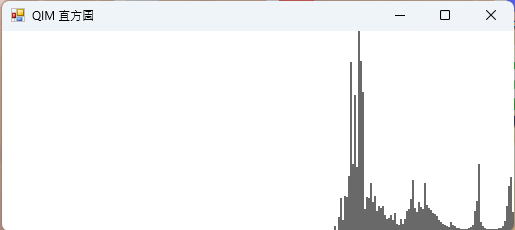
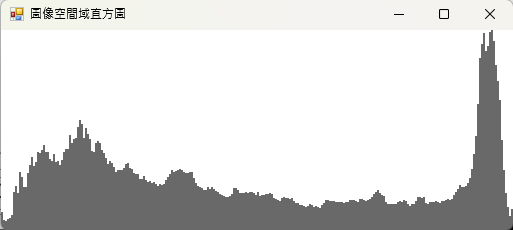
Fixed an issue with image import, updated READMEs and added a Traditional Chinese one. 05/18

Changed region(s): [[0.0, 0.0, 1.0, 1.0], [0.7485, 0.0609, 0.7797, 0.0913]]

diff --git a/StegoApolloUI/Forms/MainForm.Designer.cs b/StegoApolloUI/Forms/MainForm.Designer.cs
@@ -32,6 +32,7 @@
             System.ComponentModel.ComponentResourceManager resources = new System.ComponentModel.ComponentResourceManager(typeof(MainForm));
             this.menu = new System.Windows.Forms.MenuStrip();
             this.menu_functions = new System.Windows.Forms.ToolStripMenuItem();
+            this.menu_toggleDebugMode = new System.Windows.Forms.ToolStripMenuItem();
             this.menu_reset = new System.Windows.Forms.ToolStripMenuItem();
             this.menu_file = new System.Windows.Forms.ToolStripMenuItem();
             this.menu_open = new System.Windows.Forms.ToolStripMenuItem();
@@ -59,6 +60,7 @@
             this.btn_dBrowse = new System.Windows.Forms.Button();
             this.btn_Encrypt = new System.Windows.Forms.Button();
             this.btn_Decrypt = new System.Windows.Forms.Button();
+            this.btn_dHistogram = new System.Windows.Forms.Button();
             this.panel_Encrypt = new System.Windows.Forms.Panel();
             this.panel_eActions = new System.Windows.Forms.Panel();
             this.panel_eProgressBar = new System.Windows.Forms.Panel();
@@ -96,8 +98,6 @@
             this.cBox_AlgoSelect = new System.Windows.Forms.ComboBox();
             this.lbl_AlgoSelect = new System.Windows.Forms.Label();
             this.btn_Logo = new System.Windows.Forms.Button();
-            this.btn_dHistogram = new System.Windows.Forms.Button();
-            this.menu_toggleDebugMode = new System.Windows.Forms.ToolStripMenuItem();
             this.menu.SuspendLayout();
             this.status.SuspendLayout();
             this.panel_Encrypt.SuspendLayout();
@@ -138,11 +138,19 @@
             this.menu_functions.Size = new System.Drawing.Size(43, 20);
             this.menu_functions.Text = "功能";
             // 
+            // menu_toggleDebugMode
+            // 
+            this.menu_toggleDebugMode.Name = "menu_toggleDebugMode";
+            this.menu_toggleDebugMode.Size = new System.Drawing.Size(169, 22);
+            this.menu_toggleDebugMode.Text = "除錯模式 (已停用)";
+            this.menu_toggleDebugMode.ToolTipText = "切換除錯模式開/關";
+            this.menu_toggleDebugMode.Click += new System.EventHandler(this.menu_toggleDebugMode_Click);
+            // 
             // menu_reset
             // 
             this.menu_reset.ForeColor = System.Drawing.Color.Maroon;
             this.menu_reset.Name = "menu_reset";
-            this.menu_reset.Size = new System.Drawing.Size(180, 22);
+            this.menu_reset.Size = new System.Drawing.Size(169, 22);
             this.menu_reset.Text = "重置所有東西";
             this.menu_reset.Click += new System.EventHandler(this.menu_reset_Click);
             // 
@@ -220,8 +228,8 @@
             this.btn_eHistogram.Name = "btn_eHistogram";
             this.btn_eHistogram.Size = new System.Drawing.Size(90, 37);
             this.btn_eHistogram.TabIndex = 1;
-            this.btn_eHistogram.Text = "顯示直方圖(?)";
-            this.toolTip.SetToolTip(this.btn_eHistogram, "目前只支援HistShift演算法");
+            this.btn_eHistogram.Text = "顯示直方圖";
+            this.toolTip.SetToolTip(this.btn_eHistogram, "顯示圖片的空間域直方圖");
             this.btn_eHistogram.UseVisualStyleBackColor = true;
             this.btn_eHistogram.Click += new System.EventHandler(this.btn_eHistogram_Click);
             // 
@@ -403,6 +411,18 @@
             this.toolTip.SetToolTip(this.btn_Decrypt, "進入萃取模式");
             this.btn_Decrypt.UseVisualStyleBackColor = true;
             this.btn_Decrypt.Click += new System.EventHandler(this.btn_Decrypt_Click);
+            // 
+            // btn_dHistogram
+            // 
+            this.btn_dHistogram.Font = new System.Drawing.Font("微軟正黑體", 9F, System.Drawing.FontStyle.Bold, System.Drawing.GraphicsUnit.Point, ((byte)(136)));
+            this.btn_dHistogram.Location = new System.Drawing.Point(299, 1);
+            this.btn_dHistogram.Name = "btn_dHistogram";
+            this.btn_dHistogram.Size = new System.Drawing.Size(90, 37);
+            this.btn_dHistogram.TabIndex = 4;
+            this.btn_dHistogram.Text = "顯示直方圖";
+            this.toolTip.SetToolTip(this.btn_dHistogram, "顯示圖片的空間域直方圖");
+            this.btn_dHistogram.UseVisualStyleBackColor = true;
+            this.btn_dHistogram.Click += new System.EventHandler(this.btn_dHistogram_Click);
             // 
             // panel_Encrypt
             // 
@@ -805,26 +825,6 @@
             this.btn_Logo.UseVisualStyleBackColor = false;
             this.btn_Logo.Click += new System.EventHandler(this.btn_Logo_Click);
             // 
-            // btn_dHistogram
-            // 
-            this.btn_dHistogram.Font = new System.Drawing.Font("微軟正黑體", 9F, System.Drawing.FontStyle.Bold, System.Drawing.GraphicsUnit.Point, ((byte)(136)));
-            this.btn_dHistogram.Location = new System.Drawing.Point(299, 1);
-            this.btn_dHistogram.Name = "btn_dHistogram";
-            this.btn_dHistogram.Size = new System.Drawing.Size(90, 37);
-            this.btn_dHistogram.TabIndex = 4;
-            this.btn_dHistogram.Text = "顯示直方圖(?)";
-            this.toolTip.SetToolTip(this.btn_dHistogram, "目前只支援HistShift演算法");
-            this.btn_dHistogram.UseVisualStyleBackColor = true;
-            this.btn_dHistogram.Click += new System.EventHandler(this.btn_dHistogram_Click);
-            // 
-            // menu_toggleDebugMode
-            // 
-            this.menu_toggleDebugMode.Name = "menu_toggleDebugMode";
-            this.menu_toggleDebugMode.Size = new System.Drawing.Size(180, 22);
-            this.menu_toggleDebugMode.Text = "除錯模式 (已停用)";
-            this.menu_toggleDebugMode.ToolTipText = "切換除錯模式開/關";
-            this.menu_toggleDebugMode.Click += new System.EventHandler(this.menu_toggleDebugMode_Click);
-            // 
             // MainForm
             // 
             this.AutoScaleDimensions = new System.Drawing.SizeF(6F, 12F);
@@ -833,10 +833,10 @@
             this.ClientSize = new System.Drawing.Size(800, 531);
             this.Controls.Add(this.btn_Logo);
             this.Controls.Add(this.panel_Algorithm);
-            this.Controls.Add(this.panel_Decrypt);
             this.Controls.Add(this.panel_Functions);
-            this.Controls.Add(this.panel_Default);
             this.Controls.Add(this.panel_Encrypt);
+            this.Controls.Add(this.panel_Default);
+            this.Controls.Add(this.panel_Decrypt);
             this.Controls.Add(this.status);
             this.Controls.Add(this.menu);
             this.FormBorderStyle = System.Windows.Forms.FormBorderStyle.FixedSingle;

diff --git a/StegoApolloUI/Forms/MainForm.cs b/StegoApolloUI/Forms/MainForm.cs
@@ -24,6 +24,7 @@ namespace StegoApolloUI
         private string _processingText = "";
         private bool _isTextboxDefault = true;
         private bool _isProcessed = false;
+        private Bitmap originalImage = null;
         private Bitmap processedImage = null;
 
         public MainForm(int maxMessageLength)
@@ -72,8 +73,6 @@ namespace StegoApolloUI
                     btn_eStartAction.Enabled = false;
                     btn_eExport.Enabled = true;
                     btn_dStartAction.Enabled = false;
-                    btn_eHistogram.Enabled = true;
-                    btn_dHistogram.Enabled = true;
                     MessageBox.Show(currentMode=="Encrypt" ? "圖片已成功處理!" : "已成功萃取文字!", "成功", MessageBoxButtons.OK, MessageBoxIcon.Information);
                 }
                 else
@@ -81,8 +80,6 @@ namespace StegoApolloUI
                     btn_eStartAction.Enabled = true;
                     btn_eExport.Enabled = false;
                     btn_dStartAction.Enabled = true;
-                    btn_eHistogram.Enabled = false;
-                    btn_dHistogram.Enabled = false;
                 }
             }
         }
@@ -483,6 +480,8 @@ namespace StegoApolloUI
                 panel_eProgressBar.Enabled = true;
                 panel_eTextArea.Enabled = true;
                 IsProcessed = false;
+                originalImage = new Bitmap(fileDialog.FileName);
+                processedImage = null;
                 ShowImage(new Bitmap(fileDialog.FileName));
             }
             else
@@ -598,7 +597,7 @@ namespace StegoApolloUI
         }
         private void btn_eHistogram_Click(object sender, EventArgs e)
         {
-            GenerateHistogram(processedImage);
+            GenerateHistogram();
         }
         #endregion
 
@@ -629,6 +628,8 @@ namespace StegoApolloUI
                 panel_dProgressBar.Enabled = true;
                 panel_dTextArea.Enabled = true;
                 IsProcessed = false;
+                originalImage = new Bitmap(fileDialog.FileName);
+                processedImage = null;
                 ShowImage(new Bitmap(fileDialog.FileName));
             }
             else
@@ -689,7 +690,7 @@ namespace StegoApolloUI
 
         private void btn_dHistogram_Click(object sender, EventArgs e)
         {
-            GenerateHistogram(processedImage);
+            GenerateHistogram();
         }
 
         #endregion
@@ -761,15 +762,16 @@ namespace StegoApolloUI
             }
         }
 
-        private void GenerateHistogram(Bitmap image)
+        private void GenerateHistogram()
         {
+            Bitmap image = processedImage ?? originalImage;
             LogManager.Instance.LogInfo("正在生成直方圖...");
-            // 1. 前置檢查
-            if (cBox_AlgoSelect.SelectedItem?.ToString() != "HistShift 演算法")
-            {
-                MessageBox.Show("只有 HistShift 演算法才支援直方圖顯示。", "提示", MessageBoxButtons.OK, MessageBoxIcon.Information);
-                return;
-            }
+            //// 1. 前置檢查
+            //if (cBox_AlgoSelect.SelectedItem?.ToString() != "HistShift 演算法")
+            //{
+            //    MessageBox.Show("只有 HistShift 演算法才支援直方圖顯示。", "提示", MessageBoxButtons.OK, MessageBoxIcon.Information);
+            //    return;
+            //}
 
             // 2. 計算直方圖
             int[] hist = HistogramHelper.ComputeChannelHistogram(image, 'R');
@@ -801,7 +803,7 @@ namespace StegoApolloUI
             // 5. 用新 Form 顯示
             var f = new Form
             {
-                Text = "QIM 直方圖",
+                Text = "圖像空間域直方圖",
                 StartPosition = FormStartPosition.CenterParent,
                 ClientSize = new Size(histW, histH)
             };

diff --git a/README.md b/README.md
@@ -1,30 +1,39 @@
+### This project provides multilanguage README.md file
+[![Static Badge](https://img.shields.io/badge/lang-en-red)](https://github.com/Unforgettableeternalproject/StegoApollo/blob/master/README.md) [![Static Badge](https://img.shields.io/badge/lang-zh--tw-yellow)](https://github.com/Unforgettableeternalproject/StegoApollo/blob/master/README.zh-tw.md)
+
+---
+
 # StegoApollo - A Steganography Tool
 
 ## Overview
 
-StegoApollo is a Windows Forms application for hiding and extracting messages within images using steganography techniques. It features both **LSB** and **QIM** embedding methods, along with visualization and logging tools for ease of use.
+StegoApollo is a Windows Forms application for hiding and extracting messages within images using multiple steganography algorithms. It provides rich visualization, detailed logging, and an improved user experience, making it suitable for both learning and practical use.
 
 ## Features
 
-* **LSB Embedding/Extraction**: Hide messages in the least significant bits of R/G/B channels.
-* **QIM Embedding/Extraction**: Robust Quantization Index Modulation in the grayscale channel.
-* **Histogram Visualization**: Generate and display the grayscale histogram after processing (QIM only).
-* **Logging Panel**: Real-time display of application actions, warnings, and errors.
-* **Algorithm Explainer**: Interactive pane showing detailed algorithm descriptions for LSB and QIM.
-* **Save Result**: Export the processed image in PNG format.
-* **Progress Indicator**: Visual progress bar during embedding and extraction.
+* **LSB Embedding/Extraction**: Hide messages in the least significant bits of the RGB channels.
+* **QIM Embedding/Extraction**: Quantization Index Modulation in the grayscale channel, robust against noise.
+* **DCT-QIM Embedding/Extraction**: Combines frequency domain (DCT) and QIM, embedding information in mid-frequency coefficients for high concealment and compression resistance.
+* **HistShift (Histogram Shifting) Embedding/Extraction**: Embeds data only in the densest pixel value regions, supporting reversible data hiding.
+* **Histogram Visualization**: Generate and display the R channel histogram at any time, regardless of the algorithm.
+* **Logging Panel**: Real-time display of actions, warnings, errors, and debug information.
+* **Algorithm Explainer**: Interactive window with detailed explanations for all supported algorithms.
+* **Progress Indicator**: Progress bar with fine-grained stage updates during embedding and extraction.
+* **Debug Mode**: Toggleable; when enabled, shows more detailed debug logs for learning and troubleshooting.
+* **Save Result**: Export processed images as PNG files.
+* **Enhanced User Experience**: More intuitive workflow, clearer error messages, and smoother operation.
 
 ## Screenshots
 
-**Initial Screen**:
+**Main Screen**:
 
 ![Screenshot](StegoApolloUI/Screenshots/001.png)
 
-**Embedding Process (With Log Screen and Explanation Screen)**:
+**Embedding Process**:
 
 ![Screenshot](StegoApolloUI/Screenshots/002.png)
 
-**Histogram Visualization**:
+**Histogram Visualization (available for all algorithms)**:
 
 ![Screenshot](StegoApolloUI/Screenshots/003.png)
 
@@ -32,47 +41,67 @@ StegoApollo is a Windows Forms application for hiding and extracting messages wi
 
 ![Screenshot](StegoApolloUI/Screenshots/004.png)
 
+**Full Expandable**:
+
+![Screenshot](StegoApolloUI/Screenshots/005.png)
+
 ## Installation
 
 1. **Clone the repository**:
+	```bash
+	git clone https://github.com/Unforgettableeternalproject/StegoApollo
+	cd StegoApollo
+	```
 
-   ```bash
-   git clone https://github.com/Unforgettableeternalproject/StegoApollo
-   cd StegoApollo
-   ```
 2. **Open the solution**:
+* Open `StegoSolution.sln` in Visual Studio.
 
-   * Launch Visual Studio and open `StegoSolution.sln`.
 3. **Build projects**:
+* Build **StegoLib** (Class Library).
+* Build **StegoApolloUI** (WinForms Application).
 
-   * Build **StegoLib** (Class Library).
-   * Build **StegoApp** (WinForms Application).
 4. **Run the application**:
+* Set `StegoApolloUI` as the startup project and press F5.
 
-   * Set `StegoApp` as the startup project and press F5.
 
 ## Usage
 
---Embedding--
-1. **Select Image**: Choose an image file to embed a message.
-2. **Select Method**: Choose between LSB or QIM for embedding.
-3. **Enter Message**: Type the message you want to hide.
-4. **Start Embedding**: Click the "Embed" button to start the process.
-5. **Save Result**: After embedding, save the processed image.
+### Embedding
 
---Extraction--
-1. **Select Image**: Choose the image file from which you want to extract a message.
-1. **Select Method**: Choose between LSB or QIM for extraction.
-1. **Start Extraction**: Click the "Extract" button to start the process.
-1. **View Message**: The extracted message will be displayed in the text box.
-1. **Save Result**: After extraction, copy the extracted message to clipboard.
+1. **Select Image**: Load the image you want to embed a message into.
+2. **Select Algorithm**: Choose from LSB, QIM, DCT-QIM, or HistShift.
+3. **Enter Message**: Type the message you want to hide.
+4. **Start Embedding**: Click the "Embed" button.
+5. **Save Result**: Save the processed image after embedding.
+
+### Extraction
+
+1. **Select Image**: Load the image you want to extract a message from.
+2. **Select Algorithm**: Choose from LSB, QIM, DCT-QIM, or HistShift.
+3. **Start Extraction**: Click the "Extract" button.
+4. **View Message**: The extracted message will be displayed in the text box.
+5. **Save Result**: Copy the message or save the restored image.
+
+### Other Features
+
+- **Histogram Visualization**: Generate and view the R channel histogram at any time, regardless of the algorithm.
+- **Debug Mode**: Toggle from the menu; when enabled, logs will include more detailed information (e.g., embedding details, coordinates, payload).
+- **Algorithm Explanation**: Click the explanation button to view the principles and pros/cons of each algorithm.
+
+## What's New
+
+- Added **HistShift (Histogram Shifting)** and **DCT-QIM (Frequency Domain Quantization Index Modulation)** algorithms.
+- Progress bar now shows more detailed, stage-based progress.
+- Histogram visualization is now available for all algorithms.
+- Added a "Debug Mode" option for advanced users to track detailed process information.
+- Multiple UI/UX improvements for a smoother and more user-friendly experience.
 
 ## To-Do List
 
-- [ ] Add more visualization options for LSB and QIM.
-- [ ] Implement error handling for unsupported image formats.
-- [ ] Add unit tests for the embedding and extraction algorithms.
-- [ ] Improve the UI/UX for better user experience.
+- [ ] Add more visualization options (e.g., highlight embedding points).
+- [ ] Improve error handling and format support.
+- [ ] Add unit tests for algorithms.
+- [ ] Continue optimizing UI/UX.
 
 ## Contributing
 
